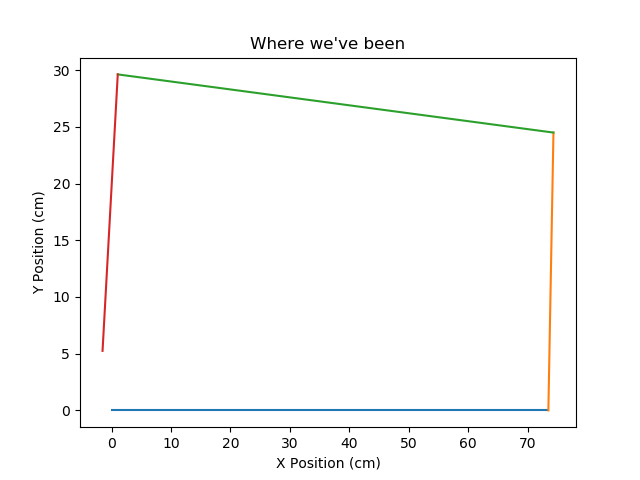
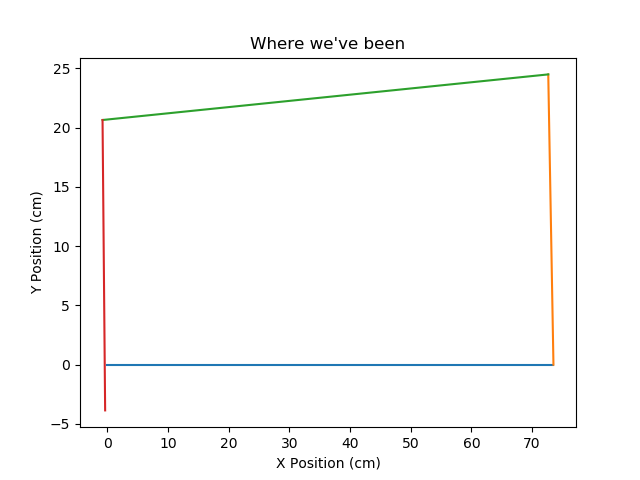
Updated encoder map

diff --git a/map02.py b/map02.py
@@ -59,11 +59,11 @@ if __name__ == "__main__":
 	fig,ax=plt.subplots()
 
 	new_pos=deadReckonPlot(start_pos,ticks,ax)
-	new_pos[2]+=88
+	new_pos[2]+=92
 	#theta = 90
 	ticks = 24
 	new_pos=deadReckonPlot(new_pos,ticks,ax)
-	new_pos[2]+=88
+	new_pos[2]+=91
 	#theta = 92
 	ticks = 72 
 	new_pos=deadReckonPlot(new_pos,ticks,ax)
